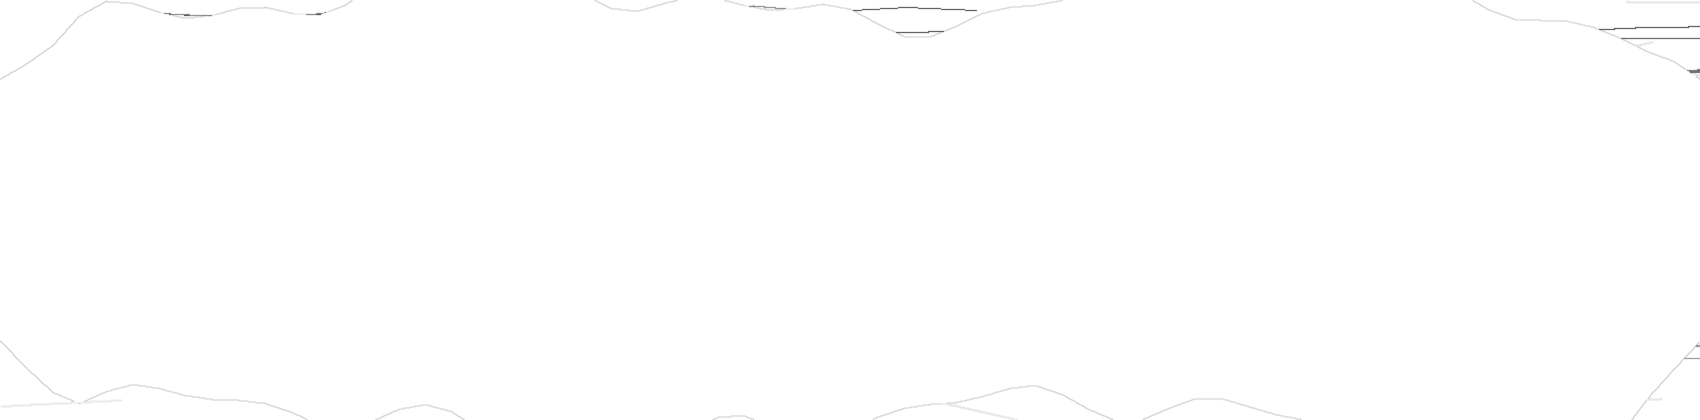
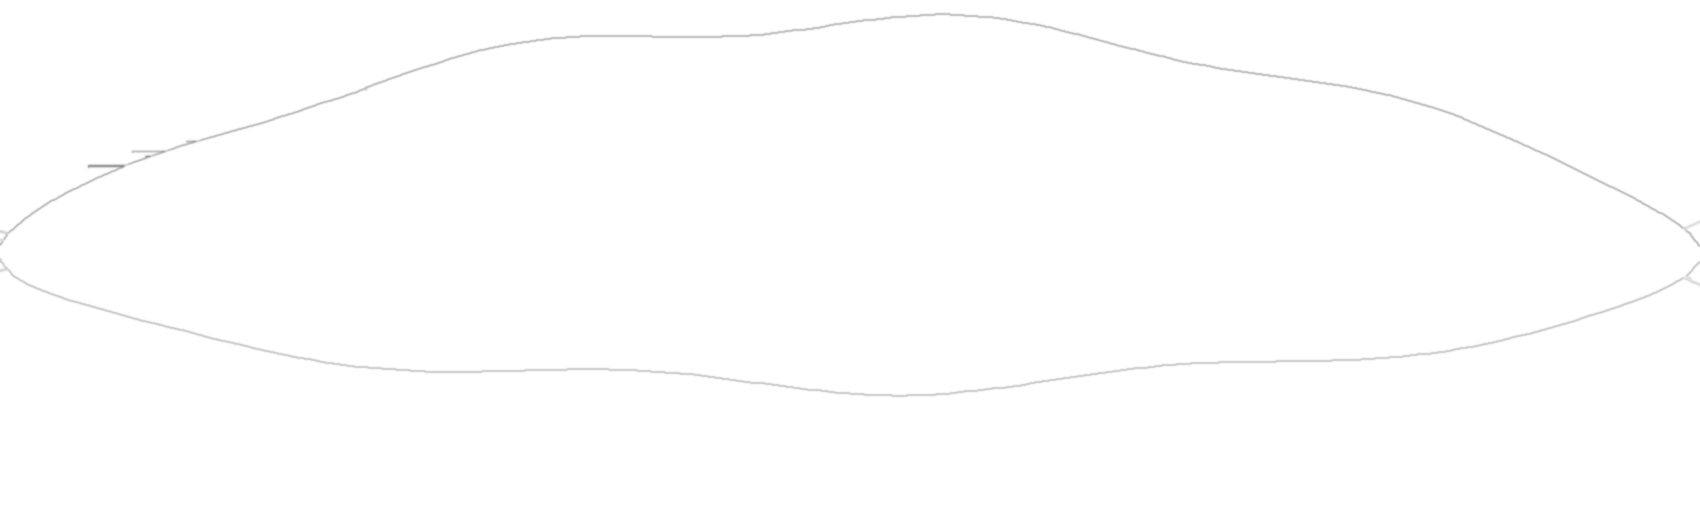
封面笔刷换成优雅渐细笔锋图 (用户要参考图那种, 旧的太难看)
用户给参考: 渐细两端 + 顶部重笔锋亮边 + 飞白毛尖 + 柔和半透明体. 重新生成 cover-brush.png (PIL: 渐细 sin^0.62 半宽轮廓 + 轻微上拱 + 顶边重描 + 末端 fanning 毛尖 + 少量柔和横纹 + 高斯柔化) 替换旧的粗糙密条纹图. public/ + windows-server/ + cosyvoice 活路径都换; coverLine.ts BRUSH_URL 加 ?v=2 防旧图缓存; 后端重启重载 _load_brush 缓存.

diff --git a/src/lib/coverLine.ts b/src/lib/coverLine.ts
@@ -3,7 +3,7 @@
 // thicknessCss = 已换算到目标单位的线粗 (Admin.tsx 用 px, TemplateCoverPicker 用 cqw).
 import type { CSSProperties } from 'react'
 
-const BRUSH_URL = '/cover-brush.png'   // 真实笔刷图 (public/), 跟后端同一张
+const BRUSH_URL = '/cover-brush.png?v=2'   // 真实笔刷图 (public/), 跟后端同一张. ?v 换图防缓存
 
 export function lineStyle(
   style: string | undefined,